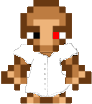
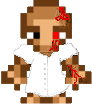
Diametros e algumas coisas

diff --git a/js/inimigo.js b/js/inimigo.js
@@ -11,7 +11,8 @@ class Inimigo{
         this.inimigoVelX = this.vel * cos(this.dir);
         this.inimigoVelY = this.vel * sin (this.dir);
 
-        this.diam = 37;
+        this.diamX = 95;
+        this.diamY = 104;
 
         this.nivelDoente = 0
 
@@ -22,6 +23,7 @@ class Inimigo{
         this.inimigoGeral = loadImage("assets/img/Inimigos/inimigo.png");
         this.inimigoR2 = loadImage("assets/img/Inimigos/inimigoR2.png");
         this.inimigoR3 = loadImage("assets/img/Inimigos/inimigoR3.png");
+        this.inimigoR4 = loadImage("assets/img/Inimigos/inimigoR4.png");
 
         this.inimigo = this.inimigoGeral;
     }
@@ -64,12 +66,7 @@ class Inimigo{
     
 
     adoeceu(){
-/*
-        console.log("Imagem atual:", this.inimigo);
-        console.log("millis():", millis());
-        console.log("this.tempo:", this.tempo);
-        console.log("this.intervalo:", this.intervalo);
-*/
+
         if(millis() - this.tempo > this.intervalo){
 
             switch(this.nivelDoente){
@@ -87,8 +84,14 @@ class Inimigo{
                 this.nivelDoente++;
                     break;
                 case 2:
+                    this.inimigo = this.inimigoR4;
                     console.log(this.nivelDoente);
-                this.eliminaInimigo();
+
+                    this.vel=0;
+                    this.dir=0;
+                    this.inimigoVelX = 0;
+                    this.inimigoVelY = 0;
+
                     break;
 
             }

diff --git a/js/seringa.js b/js/seringa.js
@@ -7,7 +7,8 @@ class Seringa {
         this.offsetY = 10;
 
         //para depois as colisões
-        this.diam = 100;
+        this.diamX = 100;
+        this.diamY = 30;
 
         this.seringaX = px + this.offsetX;
         this.seringaY = py + this.offsetY;;
@@ -17,10 +18,10 @@ class Seringa {
         this.retornando = false;  // Controle para saber se está voltando
 
         //velocidade da seringa
-        this.vel = 2
+        this.vel = 2;
 
         //velocidade de ataque ( velocidade no qual percorre)
-        this.velATK = 2
+        this.velATK = 5;
 
         //this.img;
 

diff --git a/js/player.js b/js/player.js
@@ -7,7 +7,9 @@ class Player {
 
         this.vel = 1;
 
-        this.diam = 92;
+        this.diamX = 92;
+        this.diamY = 104;
+
 
 
          
